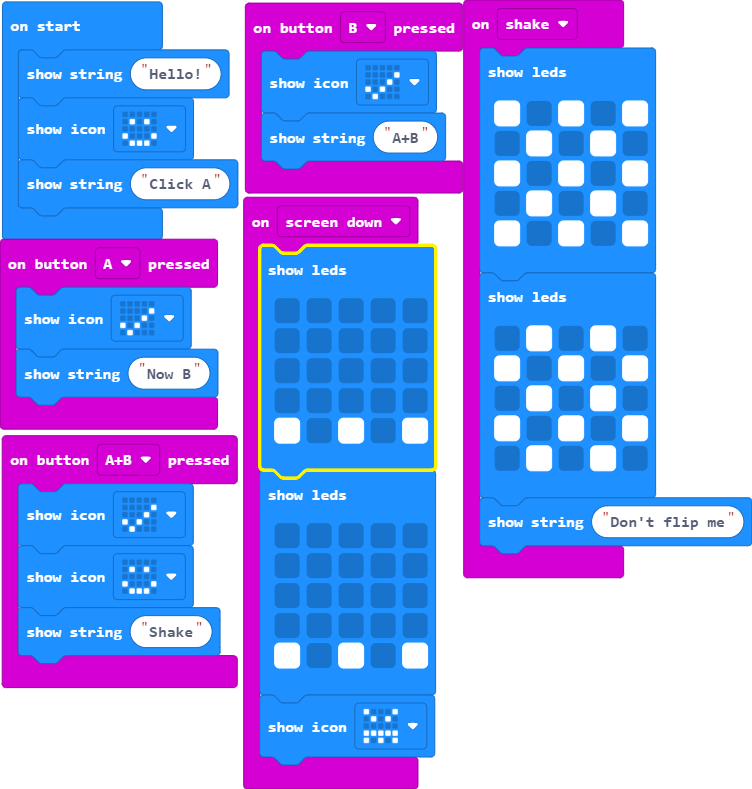
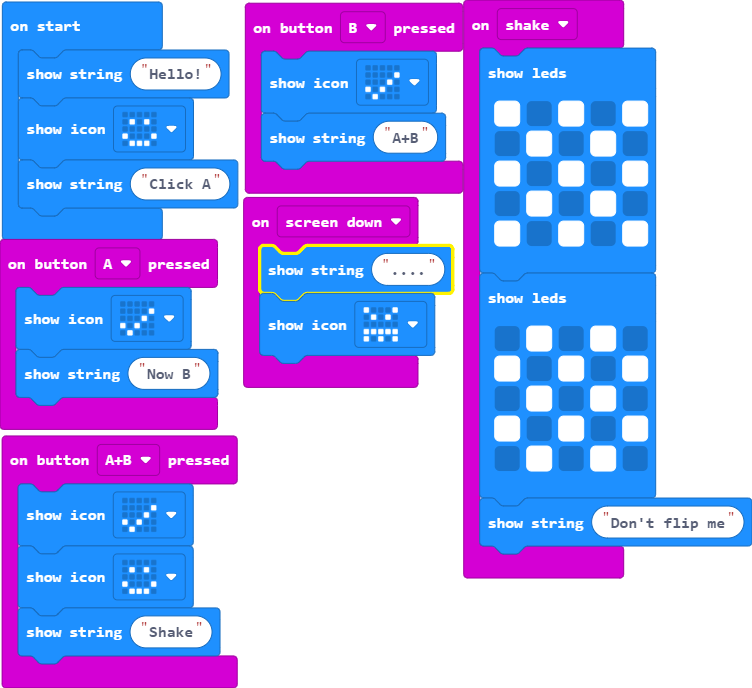
Update main.blocks, main.ts

diff --git a/main.ts b/main.ts
@@ -3,20 +3,7 @@ input.onButtonPressed(Button.A, function () {
     basic.showString("Now B")
 })
 input.onGesture(Gesture.ScreenDown, function () {
-    basic.showLeds(`
-        . . . . .
-        . . . . .
-        . . . . .
-        . . . . .
-        # . # . #
-        `)
-    basic.showLeds(`
-        . . . . .
-        . . . . .
-        . . . . .
-        . . . . .
-        # . # . #
-        `)
+    basic.showString("....")
     basic.showIcon(IconNames.Angry)
 })
 input.onButtonPressed(Button.AB, function () {
